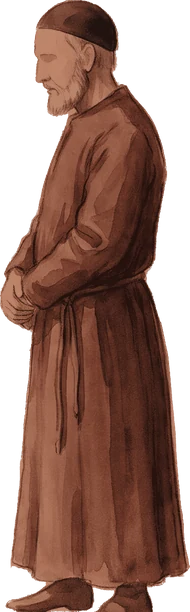
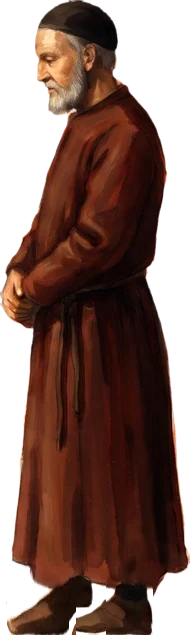
Build 274: the Interpreter's House repainted in oil after its masters; visitors in shadow
Every room repainted as a finished oil with real, slender people; Christian,
the Interpreter and the brave man painted again in Rembrandt's manner; the two
visitors set dark and nearly colourless. Room 1's crown laid back, room 3's
boys retaken as children and its rags patch remade, room 7's light moved.
Haze, dark-behind-the-wall and thunder fills sized to the picture.

Claude-Session: https://claude.ai/code/session_017HrTSHVVMcxEhGjUti4Zrs

diff --git a/rooms.js b/rooms.js
@@ -28,8 +28,8 @@ const RM = (() => {
   const darkOn = () => { try { return localStorage.getItem('pp-dark') === '1'; } catch (e) { return false; } };
 
   // the two visitors (sprites face LEFT as made; face 1 = turned to face right)
-  const VIS = { C: { n: 'room-christian', ax: 92, g: 631, who: 'Christian', ph: 0, ct: 1.15, mul: .88, sat: .85, warm: [1, 1, 1] }, I: { n: 'room-interpreter', ax: 86, g: 611, who: I, ph: 1.7, say: { n: 'room-interpreter-say', ax: 153, g: 611, noSh: 1 } } };
-  const BRAVE = { plain: { n: 'room5-brave', ax: 65, g: 519 }, armed: { n: 'room5-brave-armed', ax: 163, g: 519 } };
+  const VIS = { C: { n: 'room-christian', ax: 92, g: 631, who: 'Christian', ph: 0, ct: 1.2, mul: .62, sat: .42, warm: [1, 1, 1] }, I: { n: 'room-interpreter', ax: 107, g: 634, who: I, ph: 1.7, ct: 1.15, mul: .66, sat: .45, say: { n: 'room-interpreter-say', ax: 171, g: 631, noSh: 1, ct: 1.15, mul: .66, sat: .45 } } };
+  const BRAVE = { plain: { n: 'room5-brave', ax: 94, g: 519 }, armed: { n: 'room5-brave-armed', ax: 123, g: 536 } };
 
   let R = null, t = 0, ph = '', cam = { x: 0, to: 0 }, fade = 1, fadeTo = 0, after = null, toned = {}, startId = 'door', motes = [];
   const u = x => x * S - cam.x, v = y => y * S - (R.FY * S - FLOOR);
@@ -236,7 +236,7 @@ const RM = (() => {
       },
       people(c) { visitor(c, 'I', 560, 1); visitor(c, 'C', 1290, 1); },
       over(c) {
-        c.fillStyle = css([170, 150, 120], Math.min(.2, this.haze * .75)); c.fillRect(0, 0, VW, VH);
+        c.fillStyle = css([170, 150, 120], Math.min(.2, this.haze * .75)); c.fillRect(u(0), v(0), (R.PW || 3168) * S, PH * S);
         for (const d of this.dust) { const a = Math.min(1, d.a * (.45 + this.haze)); const r = d.s * S * 3; const g = c.createRadialGradient(u(d.x), v(d.y), 0, u(d.x), v(d.y), r); g.addColorStop(0, css([206, 188, 160], a * .7)); g.addColorStop(1, css([196, 178, 150], 0)); c.fillStyle = g; c.fillRect(u(d.x) - r, v(d.y) - r, 2 * r, 2 * r); }
         c.fillStyle = 'rgba(200,215,225,.5)'; for (const w of this.wet) c.fillRect(u(w.x), v(w.y), 1.2, 2.4);
       },
@@ -277,7 +277,7 @@ const RM = (() => {
         const g = this.great; if (g) { g.life++; g.r = Math.min(g.R, g.r + .47); if (!g.pop) { g.y -= 1.45 * smooth(0, 60, g.life); g.x += Math.sin(g.life / 70) * .8; if (g.life > g.L) { g.pop = 1; note(91, .02, 1.4); } } else g.pop++; }
       },
       under(c) { if (this.rags > 0 && pics['room3-rags']) { c.globalAlpha = smooth(0, 1, this.rags); c.drawImage(pics['room3-rags'], u(700), v(600), 570 * S, 720 * S); c.globalAlpha = 1; } },
-      people(c) { visitor(c, 'I', 2410, -1, 1, 1, 10); visitor(c, 'C', 2140, -1); },
+      people(c) { visitor(c, 'I', 2450, -1, 1, 1, 10); visitor(c, 'C', 2170, -1); },
       over(c) { drawBag(c, this.bag); drawCoins(c, this.coins); for (const b of this.bubbles) bubble(c, u(b.x), v(b.y), b.r * S, b.pop); if (this.great) bubble(c, u(this.great.x), v(this.great.y), this.great.r * S, this.great.pop); },
     },
     // 4 THE FIRE FED WITH OIL (after La Tour's St Joseph the Carpenter): round the back of the wall
@@ -305,7 +305,7 @@ const RM = (() => {
         for (const s of this.steam) { const g = c.createRadialGradient(u(s.x), v(s.y), 0, u(s.x), v(s.y), s.s * S); g.addColorStop(0, css([220, 210, 205], s.a * .35)); g.addColorStop(1, css([220, 210, 205], 0)); c.fillStyle = g; c.fillRect(u(s.x) - s.s * S, v(s.y) - s.s * S, 2 * s.s * S, 2 * s.s * S); }
         // the dark behind the wall, lifting as they go round
         const hx = u(2168), hide = 1 - smooth(0, .8, this.rv);
-        if (hide > .01) { const g = c.createLinearGradient(hx - 20, 0, hx + 60, 0); g.addColorStop(0, 'rgba(8,4,3,0)'); g.addColorStop(1, css([8, 4, 3], hide)); c.fillStyle = g; c.fillRect(hx - 20, 0, VW - hx + 40, VH); }
+        if (hide > .01) { const g = c.createLinearGradient(hx - 20, 0, hx + 60, 0); g.addColorStop(0, 'rgba(8,4,3,0)'); g.addColorStop(1, css([8, 4, 3], hide)); c.fillStyle = g; c.fillRect(hx - 20, v(0), u(3168) - hx + 20, PH * S); }
         if (this.rv > .3) { c.fillStyle = css([255, 200, 90], .9); for (const o of this.oil) { c.beginPath(); c.arc(u(o.x), v(o.y), 1.3, 0, 6.2832); c.fill(); } glow(c, u(2190), v(1090), 60 * f, [255, 170, 80], .3 * smooth(.3, 1, this.rv)); }
       },
     },
@@ -374,16 +374,16 @@ const RM = (() => {
         if (ph === 'tell' && t === 30) talk([[DRM, 'This night I dreamed. The heavens grew black, it thundered, and I heard the great sound of a trumpet.', null, () => { self.blk = 1; self.lt = 0; setTimeout(() => { self.fl = 1; thunder(); }, 900); setTimeout(trumpet, 2600); }], [DRM, 'I saw a man sit upon a cloud, and heard a voice: ‘Arise, ye dead, and come to judgement.’', null, () => { self.lt = 1.6; }], [DRM, 'I saw many caught up into the clouds, but I was left behind. I was not ready.', null, () => { self.lt = .15; self.blk = .4; }]], () => goTo('leave'));
         this.cur = (this.cur || 0) + ((this.blk || 0) - (this.cur || 0)) * .02; this.fl *= .9; this.lv = (this.lv || .3) + (this.lt - (this.lv || .3)) * .015;
       },
-      people(c) { visitor(c, 'I', 2470, -1, 1.22); visitor(c, 'C', 2720, -1, 1.22); },
+      people(c) { visitor(c, 'I', 2640, -1, 1.22); visitor(c, 'C', 2900, -1, 1.22); },
       under(c) {
         // the man trembles: the part of the picture round him is laid again a hair off, back and forth
         const im = pics.room7; if (im) { const a = this.sh * (.6 + .4 * Math.sin(G.t / 9)), dx = Math.sin(G.t * 1.9) * .9 * a, dy = Math.sin(G.t * 2.7) * .5 * a, k = im.width / R.PW, x0 = 560, y0 = 440, w = 640, h = 820;
           c.save(); c.beginPath(); c.ellipse(u(x0 + w / 2), v(y0 + h / 2), w * S / 2, h * S / 2, 0, 0, 6.2832); c.clip(); c.drawImage(im, x0 * k, y0 * k, w * k, h * k, u(x0) + dx, v(y0) + dy, w * S, h * S); c.restore(); }
         glow(c, u(2202), v(422), 160 * this.lv, [255, 236, 170], .35 * this.lv);
       },
-      over(c) { if (this.cur > .01) darkWith(c, [[u(905), v(820), 150, .55], [u(1650), v(330), 120 * this.lv, Math.min(1, this.lv)]], .85 * this.cur);
-        if (this.lv > .5) { c.save(); c.translate(u(1650), v(460)); c.scale(1, 1.8); glow(c, 0, 0, Math.min(120, 150 * (this.lv - .3)), [255, 240, 190], .3 * (this.lv - .5)); c.restore(); }
-        if (this.fl > .02) { const g = c.createLinearGradient(0, 0, 0, VH * .6); g.addColorStop(0, css([230, 230, 255], .25 * this.fl)); g.addColorStop(1, css([230, 230, 255], 0)); c.fillStyle = g; c.fillRect(0, 0, VW, VH * .6); } },
+      over(c) { if (this.cur > .01) darkWith(c, [[u(905), v(820), 150, .55], [u(2200), v(395), 120 * this.lv, Math.min(1, this.lv)]], .85 * this.cur);
+        if (this.lv > .5) { c.save(); c.translate(u(2200), v(520)); c.scale(1, 1.8); glow(c, 0, 0, Math.min(120, 150 * (this.lv - .3)), [255, 240, 190], .3 * (this.lv - .5)); c.restore(); }
+        if (this.fl > .02) { const g = c.createLinearGradient(0, v(0), 0, v(800)); g.addColorStop(0, css([230, 230, 255], .25 * this.fl)); g.addColorStop(1, css([230, 230, 255], 0)); c.fillStyle = g; c.fillRect(u(0), v(0), 3168 * S, 800 * S); } },
     },
     // LEAVING by the door (book {91}, {92}): he goes on his way
     leave: {

diff --git a/index.html b/index.html
@@ -156,7 +156,7 @@ body.portrait #rot{display:block}
     <button class="btn" id="again">Walk again</button>
   </div>
   <button id="snd" aria-label="Sound on or off">♪</button>
-  <div id="build">build 273 · Nov 17 2026</div>
+  <div id="build">build 274 · Nov 17 2026</div>
 </div></div>
 <div id="rot">Turn your phone sideways for a bigger picture</div>
 <script>
@@ -2549,7 +2549,7 @@ document.getElementById('on2').onclick = () => SL.on ? go3() : HL.on ? goRoom('d
 </script>
 <script src="slough.js?v=271"></script>
 <script src="hill.js?v=272"></script>
-<script src="rooms.js?v=273"></script>
+<script src="rooms.js?v=274"></script>
 <script src="keepsakes.js?v=261"></script>
 <script src="editor.js?v=261"></script>
 </body>

diff --git a/story-lab.html b/story-lab.html
@@ -3,4 +3,4 @@
 <title>Pilgrim's Progress</title>
 <!-- The game moved to the main page in build 119. This page only sends old links (and Home Screen icons) on to it. -->
 <script>location.replace('./' + location.search + location.hash);</script>
-<p><a href="./">Pilgrim's Progress</a> <span id="build">build 273 · Nov 17 2026</span></p>
+<p><a href="./">Pilgrim's Progress</a> <span id="build">build 274 · Nov 17 2026</span></p>

diff --git a/CLAUDE.md b/CLAUDE.md
@@ -35,7 +35,7 @@ A gentle side-scrolling story walk for kids ages 7 to 10, following Bunyan's *Th
 ## Working with the owner
 
 - **Repo `Twhidbey/pilgrims-progress`, branch `main`. Pushing `main` publishes the game** (GitHub Pages, https://twhidbey.github.io/pilgrims-progress/, 1 to 2 minutes). Commit and push after every change, then tell the owner it is live; a phone may show an old copy, so suggest `?v=N`. **Always give two links when a build is live (owner, build 187: "can you output [the editor link] by default and make note in notes"):** the game, `https://twhidbey.github.io/pilgrims-progress/?v=N`, and the editor link, `https://twhidbey.github.io/pilgrims-progress/?edit&v=N` (skip arrows, see Testing); add `&level=2` or `&level=3` when the change is in that level.
-- **Build stamp** (`id="build"`, bottom right): `build N · date` in `index.html` and `story-lab.html`. Bump N on **every** push that changes the game, so one number means one push. Keep the form `id="build">... build N` (the page's self-update reads it). **Currently build 273.** The two script tags at the end of `index.html` carry `?v=N` (`slough.js?v=`, `hill.js?v=`): set them to the build that last changed each file, so phones fetch the new copy. Several chats push at once: `git fetch` and rebase on `origin/main` just before pushing, and take the next number after whatever is there.
+- **Build stamp** (`id="build"`, bottom right): `build N · date` in `index.html` and `story-lab.html`. Bump N on **every** push that changes the game, so one number means one push. Keep the form `id="build">... build N` (the page's self-update reads it). **Currently build 274.** The two script tags at the end of `index.html` carry `?v=N` (`slough.js?v=`, `hill.js?v=`): set them to the build that last changed each file, so phones fetch the new copy. Several chats push at once: `git fetch` and rebase on `origin/main` just before pushing, and take the next number after whatever is there.
 - **SPEND AS LITTLE AS POSSIBLE (owner, build 106: "can you minimize spending - it's been pretty expensive for me last few days").** Video about 56 cents a try; a picture about 15 cents (`gemini-3-pro-image`); voice about a cent a line. **Before any paid call: say the cost and wait for a yes; keep the running total in `HANDOFF.md`.** Ways to save, in order: (1) do it in code first (breathing, sway, cloth and hair movement, small moves by warping a still, mirroring, tinting, reusing a figure); (2) build first and last frames from frames we already have; (3) draft pictures on `gemini-2.5-flash-image` (about a third of the price), the pro model only for the final; (4) show the owner a still before any video; (5) get two clips from one video (play backwards or back and forth); (6) write video prompts that pass the safety filter first time (no "sunk", "drowning", "thrashing", "desperate", "frightened"; say "thick sticky mud", "heaves", "cross and grumbling"); (7) a shorter video if the API offers one cheaper (not yet checked).
 - **Keep `CLAUDE.md` and `HANDOFF.md` updated after every change.** The repo is public: no names, emails or other personal details in notes, code or commits.
 - **Players:** kids 7 to 10, mostly on an iPhone. Gentle: no lives, no game over, read-aloud words, short simple sentences.
@@ -360,6 +360,8 @@ Owner: "is there a way to get pause and get menu that allows us to navigate away
 **Build 270: mood sound in every room, and light on the visitors where a strong light is near (owner: "No hymn please, but you have mood music?" ... "Yes please"; nothing spent).** (1) **Mood sound** (`MOODS`, `ambStart`/`ambStop`/`ambTick`, made in the browser, into `CLEAR`): each room a very quiet bed that fades in with the room and out with it, and sinks to half while anyone speaks (`SPK`): the door and leaving, night wind with a far owl now and then; room 1, a low warm held chord; room 2, airy high hums and a breath of air; room 3, two soft notes swaying; room 4, a deep low note, the fire's roar and its crackle; room 5, a distant bright chord over a low one, which swells at "Come in, come in" (`AMB.swell`); room 6, hollow low notes and a drip now and then; room 7, a slow deep throb; the passage, the candle's flutter and a low note. No hymn, no tune. `RM.stop()` (called wherever `index.html` leaves the house) and the end card stop it. (2) **Light on the visitors** (`R.light(x)`, `litOf`: the figure's side toward the light warmed by a gradient laid only on the figure, baked once per side and colour, drawn over it at the light's strength): room 4, the fire on the side facing it, flickering with it (and the small fire behind the wall once they have gone round); the door, a warm edge from the open doorway (and when leaving); room 1, a little candle warmth once the candle is lit. Room 4 and the night door are toned a shade darker so the light reads. The evenly lit rooms are left alone. **I cannot hear the sound: the owner's ears decide its level and character.**
 
 **Build 273: the room seen whole, framed in the dark (owner: "rooms feel too claustrophobic and the characters seem a little cartoonish ... maybe it's because we are zoomed in too much ... i'd like to be zoomed out a little - if you want to you can frame the rooms in black"; nothing spent).** Each room's WHOLE painting is shown at once, 0.8 the size (`VZ`; a narrower painting such as room 3's is not enlarged), hung on the dark like a picture on a wall, its edges sinking softly into the dark, the floor line still above the words; nothing pans any more (`cam.x` held at 0, `setView`, `VIEW`), so room 4's far side and room 5's door are in the picture from the start (room 4's far side still waits in the dark until they go round). Touches are turned back through the view (`unview` in `touch()`); `darkWith` follows the view. The passage between rooms is unchanged (full screen). Before and after stills of every room were made and shown.
+
+**Build 274: the house repainted in oil, after its masters, and the visitors in shadow (owner: "let's do the $1.40 ... more rembrandty - what if we put christian and interpreter in the shadows so they don't have as much color, but then dial up the realism of the other characters ... super nice paintings - like the masters ones"; eleven `gemini-3-pro-image` pictures, about $1.43).** (1) **Every room repainted as a finished oil** by its master (each given its own picture back and the master's painting; rooms 2 and 3 also the old oil plates `concept/level4-room2-plate.jpg`, `level4-room3-plate.jpg`), everything kept in place, the people made real (slender, natural proportions, real faces painted softly): `assets/room-door.webp`, `room1` to `room7.webp` (quietened as before, `proc.py` in the session scratchpad). Room 3's first try made the boys grown-ups and Patience a woman: retaken once (two little boys, about 8 and 9). Room 1's painted picture lost its gold crown ("A crown of gold hangs over his head"): the old crown cut out by its gold and laid back in, with a faint glow. **Still a departure:** the grave person in the picture now looks out at us rather than up to heaven. (2) **Christian and the Interpreter painted once more, in Rembrandt's manner**, slender, Christian's face deep in his hood (`room-christian.webp`; `room-interpreter.webp` and `-say.webp`, the far shoe brought down with the flat-feet tool), and **set in the shadows** (`VIS`: Christian `mul` .62, `sat` .42; the Interpreter `mul` .66, `sat` .45): dark, nearly colourless, only the rooms' light (fire, candle, door) warming the side that faces it. (3) **The brave man** painted again, plain and armed, the same way (`room5-brave`, `-armed`, `BRAVE` ax 94 / 123). (4) Room 3's rags patch made again from the new picture (`room3-rags.webp`, the ragged boy cut from the picture's white strip, un-whitened, toned into the room); Christian at 2170, the Interpreter in the arch at 2450. Room 7's painted light moved right: the code's light follows (2200, 395) and the visitors stand at 2640 / 2900. (5) Fixed from build 273's zoomed-out view: room 2's dust haze, room 4's dark behind the wall and room 7's thunder light were sized to the screen and showed as boxes; now sized to the picture. Scripts (`cut2.py`, `proc2.py`) in the session scratchpad, not the repo.
 
 **Nothing is built** (but the house, above) The other chat designs the picture first; then a file `gate.js` (object like `SL`/`HL`), a title button 4, `go4()`, Level 3's end card "Go on".
 

diff --git a/HANDOFF.md b/HANDOFF.md
@@ -12,6 +12,8 @@ The game is `index.html` (Level 1 in the page, Level 2 in `slough.js`; no build 
 
 **Build 255 (small-tweaks chat): the gate's wall and door softer still, with less contrast. See `CLAUDE.md`, "Build 255". Nothing spent.**
 
+**Build 274 (room 3 chat): the house repainted in oil after its masters, real slender people, Christian and the Interpreter painted again in Rembrandt's manner and set in shadow, the brave man again; boxes left by build 273's view fixed. Eleven pictures, about $1.43 (the owner allowed about $1.40). See `CLAUDE.md`, "Build 274".**
+
 **Build 273 (room 3 chat): each room of the house shown whole, smaller, framed in the dark. Nothing spent.**
 
 **Build 270 (room 3 chat): mood sound for every room of the house (made in the browser, no hymn) and warm light on the two visitors by the fire, the open door and the candle. Nothing spent.**
